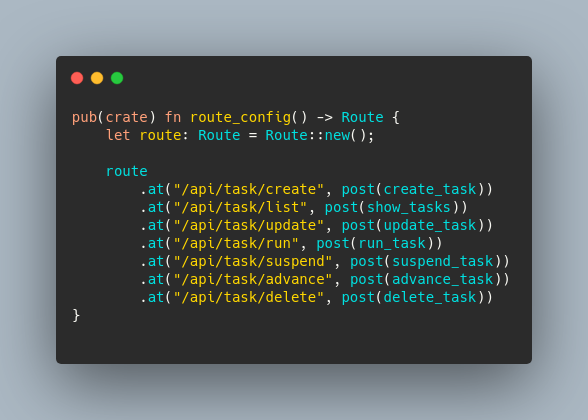
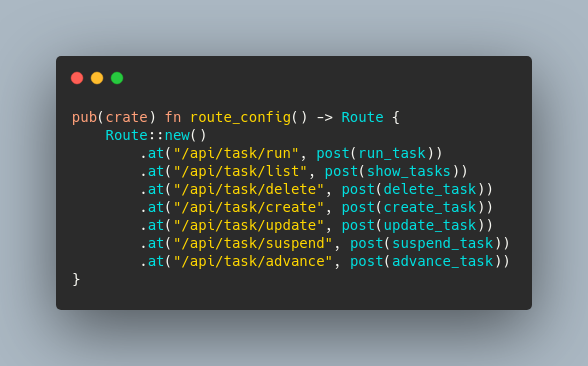
chore: Optimize codes.

diff --git a/delicate-scheduler/src/actions/task.rs b/delicate-scheduler/src/actions/task.rs
@@ -1,15 +1,14 @@
 use super::prelude::*;
 
 pub(crate) fn route_config() -> Route {
-    let route: Route = Route::new();
-    route
-        .at("/api/task/create", post(create_task))
-        .at("/api/task/list", post(show_tasks))
-        .at("/api/task/update", post(update_task))
+    Route::new()
         .at("/api/task/run", post(run_task))
+        .at("/api/task/list", post(show_tasks))
+        .at("/api/task/delete", post(delete_task))
+        .at("/api/task/create", post(create_task))
+        .at("/api/task/update", post(update_task))
         .at("/api/task/suspend", post(suspend_task))
         .at("/api/task/advance", post(advance_task))
-        .at("/api/task/delete", post(delete_task))
 }
 
 #[handler]

diff --git a/delicate-scheduler/src/actions/user.rs b/delicate-scheduler/src/actions/user.rs
@@ -6,8 +6,7 @@ use model::user::{
 use model::user_login_log::NewUserLoginLog;
 
 pub(crate) fn route_config() -> Route {
-    let route: Route = Route::new();
-    route
+    Route::new()
         .at("/api/user/create", post(create_user))
         .at("/api/user/list", post(show_users))
         .at("/api/user/update", post(update_user))

diff --git a/delicate-scheduler/src/actions/role.rs b/delicate-scheduler/src/actions/role.rs
@@ -2,8 +2,7 @@ use super::prelude::*;
 use db::model::casbin_rule::RoleId;
 
 pub(crate) fn route_config() -> Route {
-    let route: Route = Route::new();
-    route
+    Route::new()
         .at("/api/role/list", get(list))
         .at("/api/role/permission_detail", post(permission_detail))
         .at("/api/role/users", post(users))

diff --git a/delicate-scheduler/src/actions/task_log.rs b/delicate-scheduler/src/actions/task_log.rs
@@ -1,9 +1,7 @@
 use super::prelude::*;
 
 pub(crate) fn route_config() -> Route {
-    let route: Route = Route::new();
-
-    route
+    Route::new()
         .at("/api/task_log/event_trigger", post(create_task_logs))
         .at("/api/task_log/list", post(show_task_logs))
         .at("/api/task_log/detail", post(show_task_log_detail))

diff --git a/delicate-scheduler/src/actions/task_instance.rs b/delicate-scheduler/src/actions/task_instance.rs
@@ -1,9 +1,7 @@
 use super::prelude::*;
 
 pub(crate) fn route_config() -> Route {
-    let route: Route = Route::new();
-
-    route.at("/api/task_instance/kill", post(kill_task_instance))
+    Route::new().at("/api/task_instance/kill", post(kill_task_instance))
 }
 
 // Depending on the event, scheduler records/updates different logs.

diff --git a/delicate-scheduler/src/actions/operation_log.rs b/delicate-scheduler/src/actions/operation_log.rs
@@ -1,8 +1,7 @@
 use super::prelude::*;
 
 pub(crate) fn route_config() -> Route {
-    let route: Route = Route::new();
-    route
+    Route::new()
         .at("/api/operation_log/list", post(show_operation_log))
         .at("/api/operation_log/detail", post(show_operation_log_detail))
 }

diff --git a/delicate-scheduler/src/actions/data_reports.rs b/delicate-scheduler/src/actions/data_reports.rs
@@ -1,8 +1,7 @@
 use super::prelude::*;
 
 pub(crate) fn route_config() -> Route {
-    let route: Route = Route::new();
-    route.at("/api/tasks_state/one_day", get(show_one_day_tasks_state))
+    Route::new().at("/api/tasks_state/one_day", get(show_one_day_tasks_state))
 }
 
 #[handler]

diff --git a/delicate-scheduler/src/actions/executor_processor.rs b/delicate-scheduler/src/actions/executor_processor.rs
@@ -2,8 +2,7 @@ use super::prelude::*;
 use db::schema::executor_processor;
 
 pub(crate) fn route_config() -> Route {
-    let route: Route = Route::new();
-    route
+    Route::new()
         .at(
             "/api/executor_processor/list",
             post(show_executor_processors),

diff --git a/delicate-scheduler/src/actions/user_login_log.rs b/delicate-scheduler/src/actions/user_login_log.rs
@@ -1,8 +1,7 @@
 use super::prelude::*;
 
 pub(crate) fn route_config() -> Route {
-    let route: Route = Route::new();
-    route.at("/api/user_login_log/list", post(show_user_login_log))
+    Route::new().at("/api/user_login_log/list", post(show_user_login_log))
 }
 
 #[handler]

diff --git a/delicate-scheduler/src/actions/executor_group.rs b/delicate-scheduler/src/actions/executor_group.rs
@@ -1,8 +1,7 @@
 use super::prelude::*;
 
 pub(crate) fn route_config() -> Route {
-    let route: Route = Route::new();
-    route
+    Route::new()
         .at("/api/executor_group/list", post(show_executor_groups))
         .at(
             "/api/executor_group/detail",

diff --git a/delicate-scheduler/src/actions/components/permission.rs b/delicate-scheduler/src/actions/components/permission.rs
@@ -3,8 +3,7 @@
 use crate::prelude::*;
 
 pub(crate) fn route_config() -> Route {
-    let route: Route = Route::new();
-    route.at("/api/permission/list", get(permission_list))
+    Route::new().at("/api/permission/list", get(permission_list))
 }
 
 #[handler]

diff --git a/delicate-scheduler/src/actions/executor_processor_bind.rs b/delicate-scheduler/src/actions/executor_processor_bind.rs
@@ -1,8 +1,7 @@
 use super::prelude::*;
 
 pub(crate) fn route_config() -> Route {
-    let route: Route = Route::new();
-    route
+    Route::new()
         .at(
             "/api/executor_processor_bind/list",
             post(show_executor_processor_binds),
